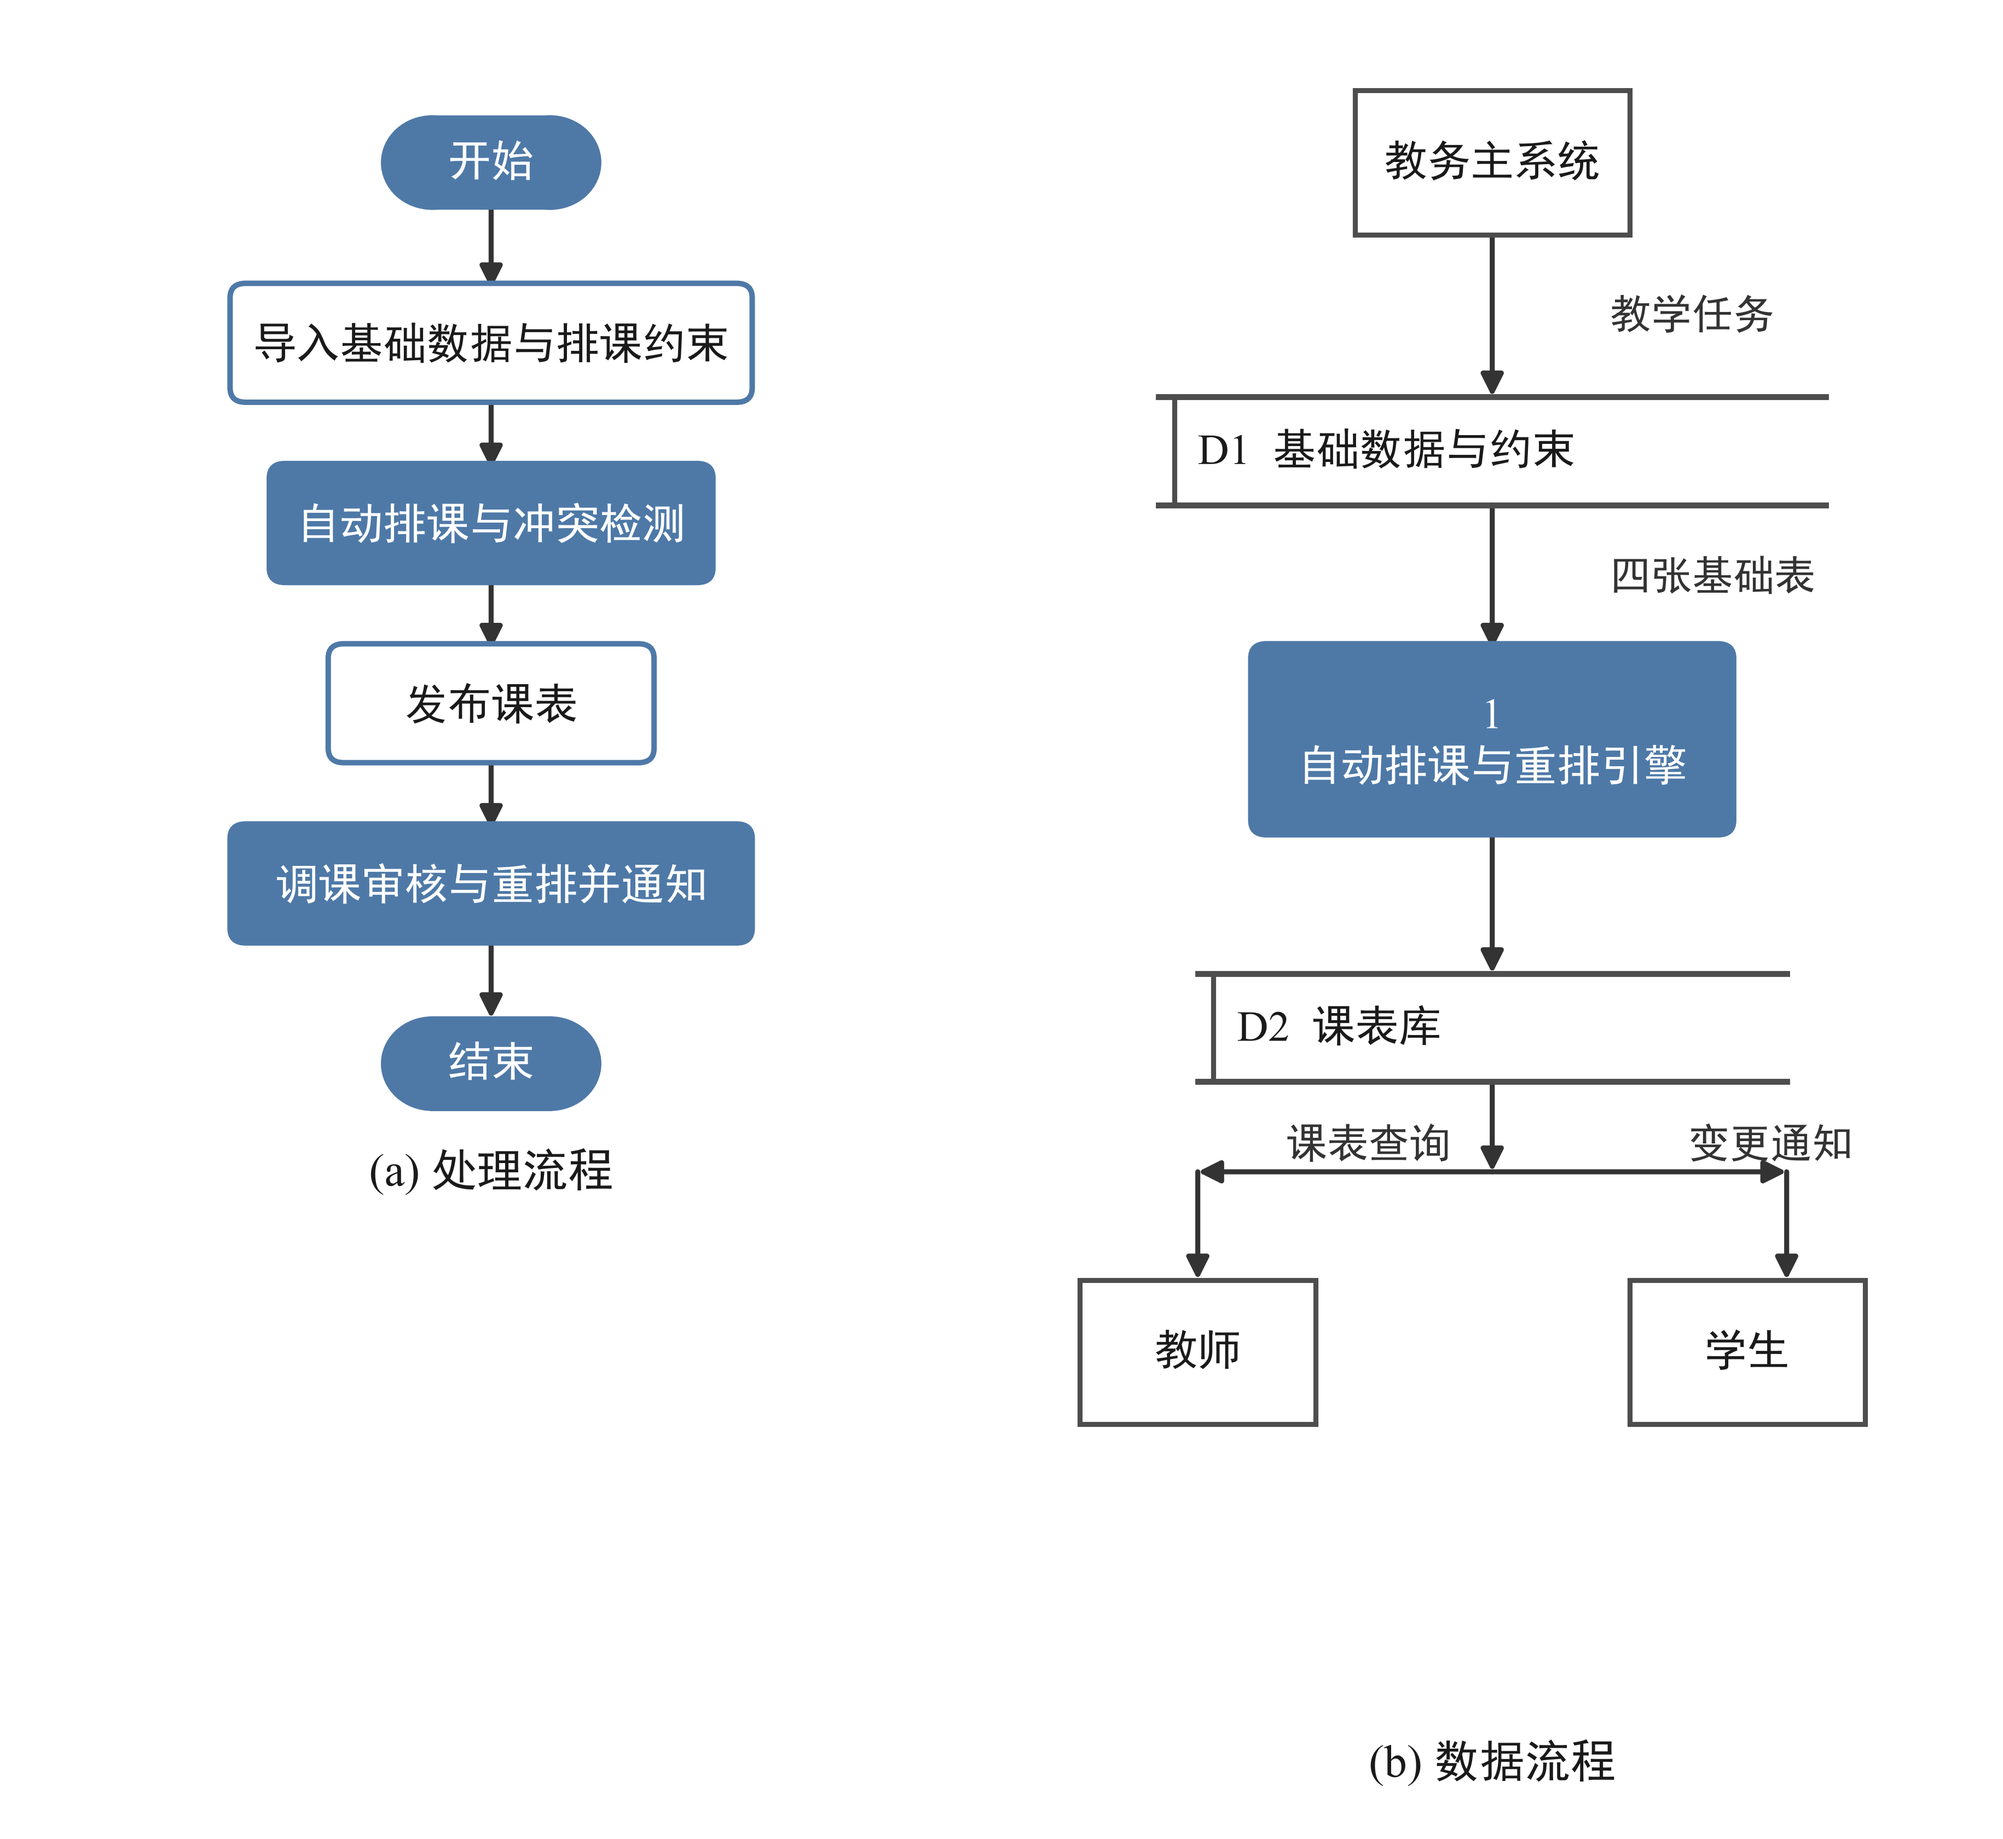
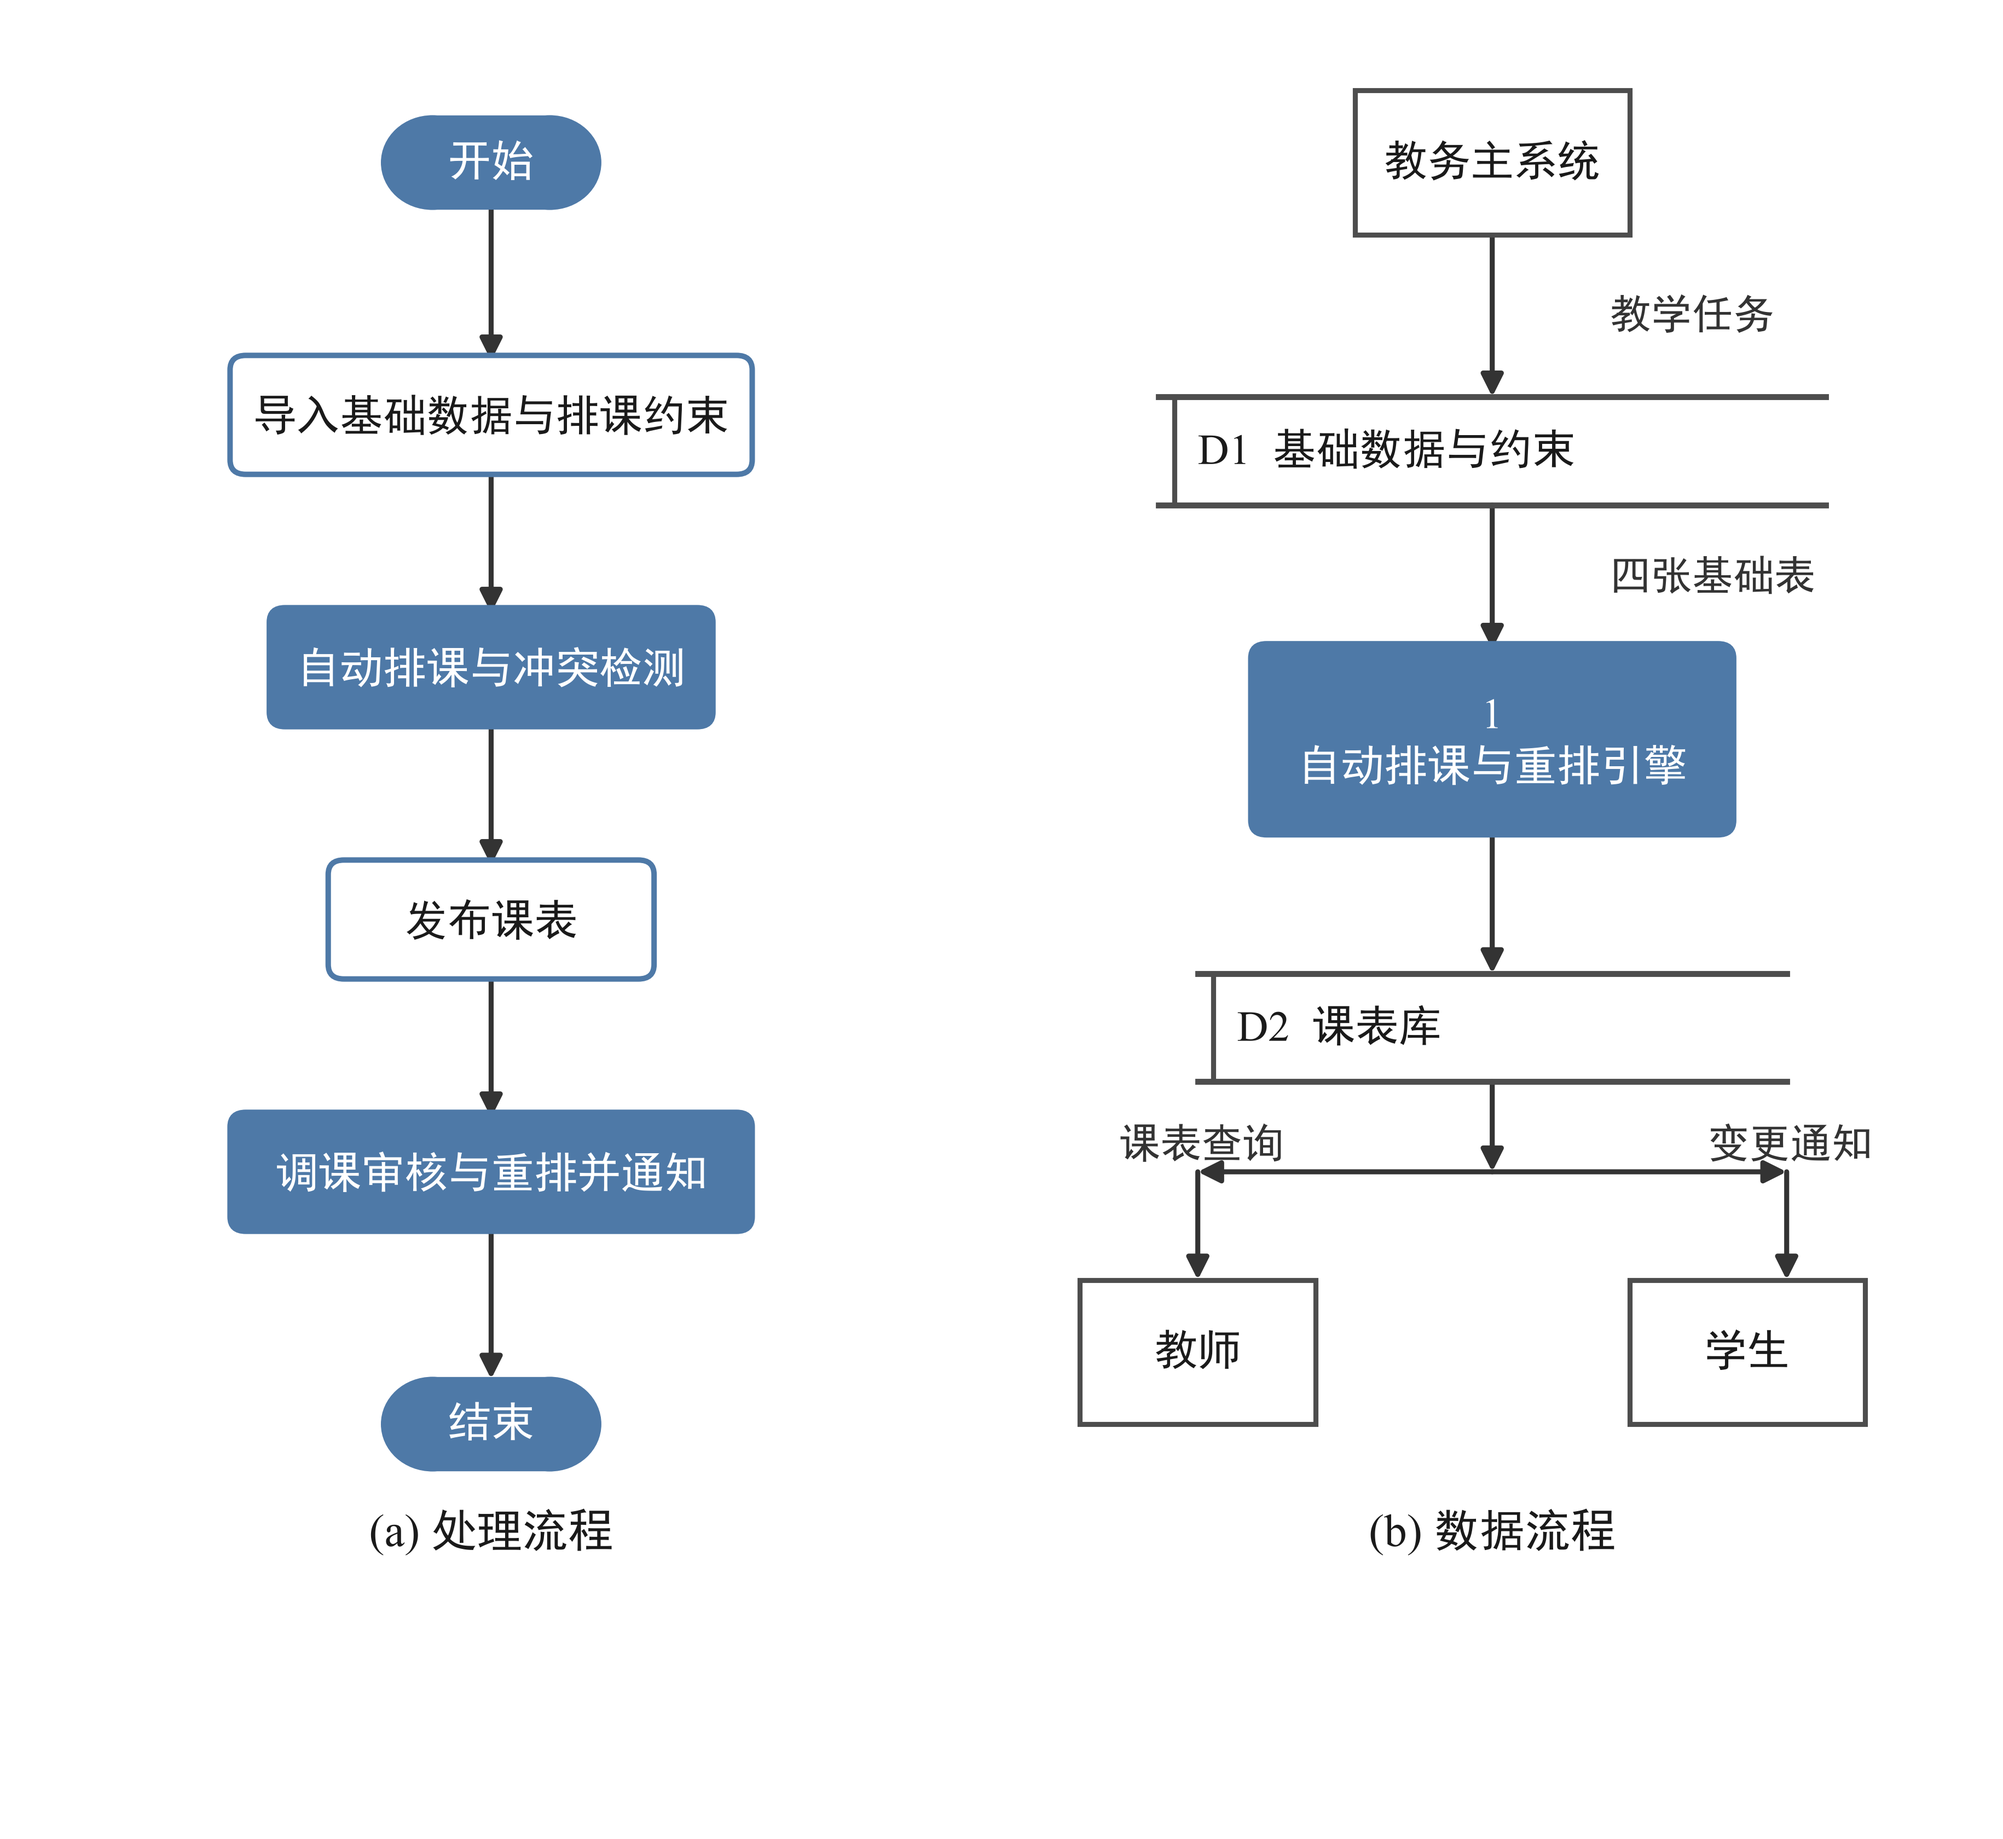
style(图2-1): 分支标签对齐各自箭头（对称于中轴）

diff --git a/1-可行性研究报告工作区/图表/图2-1/系统基本处理流程与数据流程图.py b/1-可行性研究报告工作区/图表/图2-1/系统基本处理流程与数据流程图.py
@@ -69,18 +69,18 @@ def dlabel(x, y, text):
 # ============ 面板 (a) 处理流程（简略，车道 x=24，5 个主步骤） ============
 X = 24
 capsule(X, 92, 11, 5, "开始")
-box(X, 82, 26, 6, "导入基础数据与排课约束")
-box(X, 72, 22, 6, "自动排课与冲突检测", key=True)
-box(X, 62, 16, 6, "发布课表")
-box(X, 52, 26, 6, "调课审核与重排并通知", key=True)
-capsule(X, 42, 11, 5, "结束")
+box(X, 78, 26, 6, "导入基础数据与排课约束")
+box(X, 64, 22, 6, "自动排课与冲突检测", key=True)
+box(X, 50, 16, 6, "发布课表")
+box(X, 36, 26, 6, "调课审核与重排并通知", key=True)
+capsule(X, 22, 11, 5, "结束")
 
-arrow((X, 89.5), (X, 85))
-arrow((X, 79), (X, 75))
-arrow((X, 69), (X, 65))
-arrow((X, 59), (X, 55))
-arrow((X, 49), (X, 44.5))
-ax.text(X, 36, "(a) 处理流程", ha="center", va="center", fontsize=10, color=C_TEXT)
+arrow((X, 89.5), (X, 81))
+arrow((X, 75), (X, 67))
+arrow((X, 61), (X, 53))
+arrow((X, 47), (X, 39))
+arrow((X, 33), (X, 24.5))
+ax.text(X, 16, "(a) 处理流程", ha="center", va="center", fontsize=10, color=C_TEXT)
 
 # ============ 面板 (b) 数据流程（简略 DFD-0，纵链 x=75） ============
 ext(75, 92, 14, 8, "教务主系统")
@@ -94,10 +94,10 @@ arrow((75, 88), (75, 79)); dlabel(81, 83.5, "教学任务")
 arrow((75, 73), (75, 65)); dlabel(81, 69, "四张基础表")
 arrow((75, 55), (75, 47))
 arrow((75, 41), (75, 36))
-arrow((75, 36), (60, 36)); arrow((60, 36), (60, 30)); dlabel(64.5, 37.5, "课表查询")
-arrow((75, 36), (90, 36)); arrow((90, 36), (90, 30)); dlabel(85, 37.5, "变更通知")
+arrow((75, 36), (60, 36)); arrow((60, 36), (60, 30)); dlabel(56, 37.5, "课表查询")
+arrow((75, 36), (90, 36)); arrow((90, 36), (90, 30)); dlabel(86, 37.5, "变更通知")
 arrow((54, 26), (65, 26))
-ax.text(75, 3.2, "(b) 数据流程", ha="center", va="center", fontsize=10, color=C_TEXT)
+ax.text(75, 16, "(b) 数据流程", ha="center", va="center", fontsize=10, color=C_TEXT)
 
 fig.subplots_adjust(left=0.01, right=0.99, top=0.99, bottom=0.01)
 stem = "基本处理与数据流_business_20261029"
